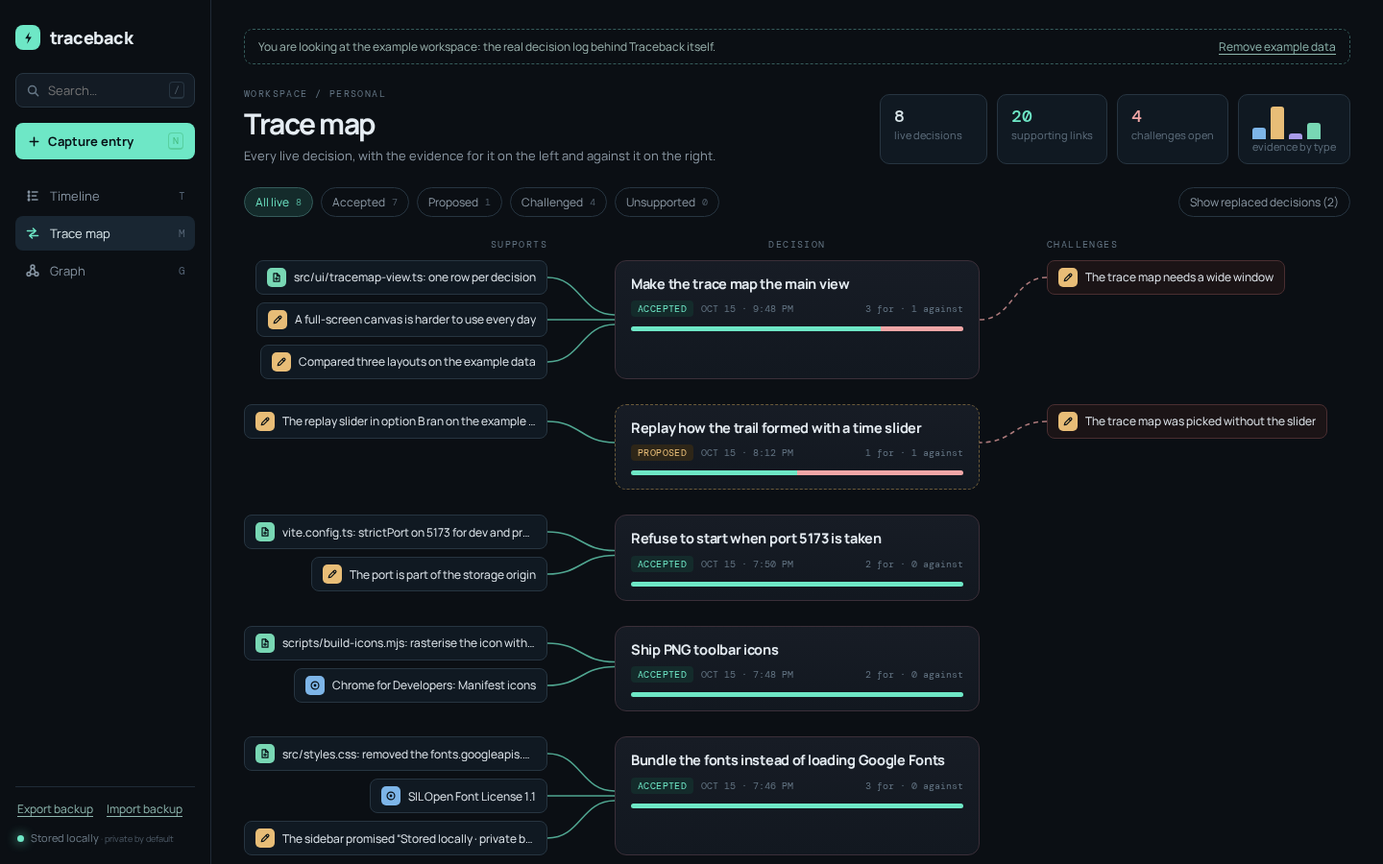
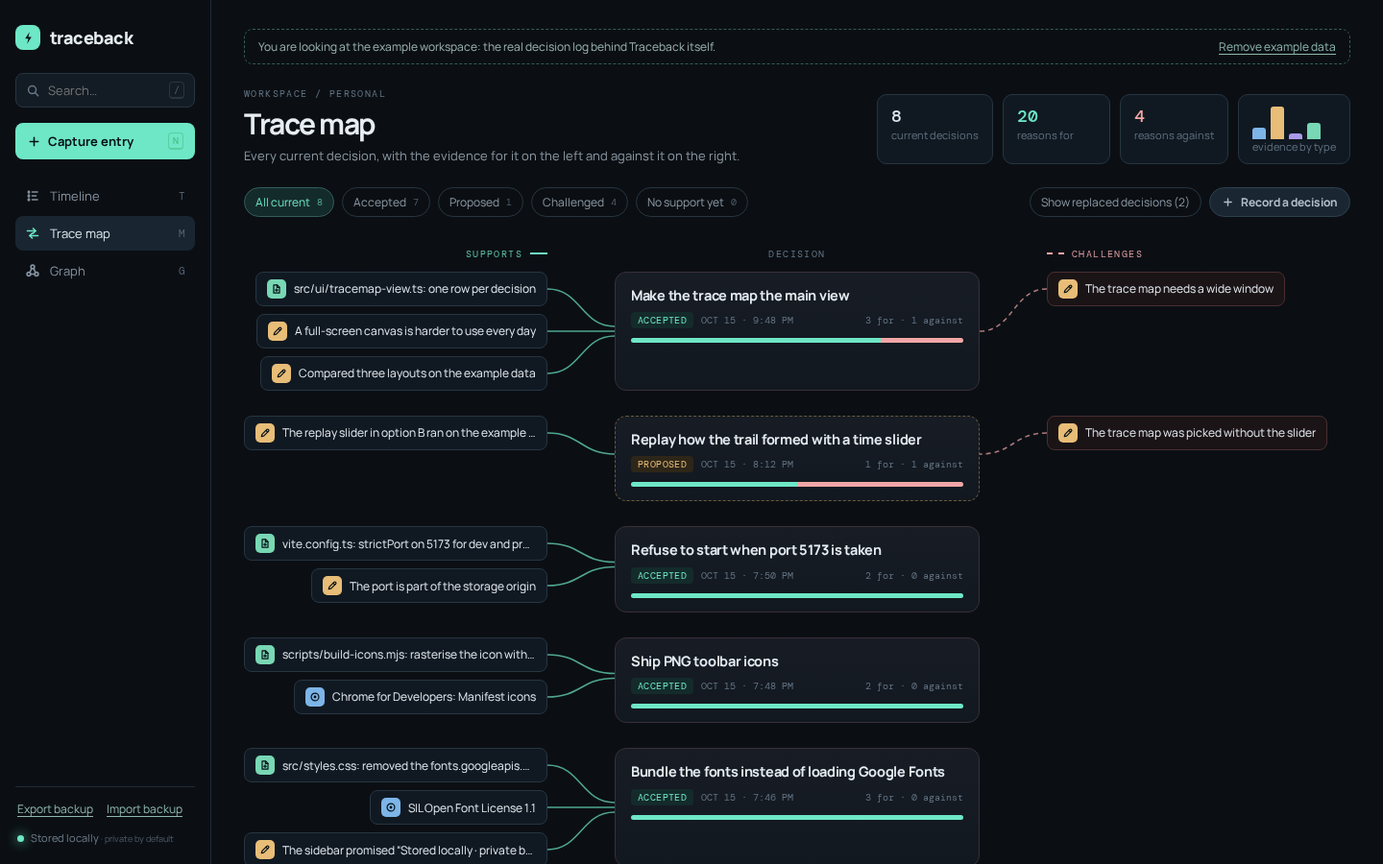
Plain-language pass from a first-run usability review
- "live" -> "current"; stats read "current decisions", "reasons for",
  "reasons against"; "Unsupported" filter -> "No support yet"
- Status label "Superseded" -> "Replaced" (search still matches both);
  every replaced-decision mention explains it is kept, not deleted
- One verb for linking: "Connect evidence to this decision" /
  "Connect this to decisions" / "Connect"; no "bears on", no "successor"
- Trace map: sticky colour-keyed SUPPORTS/CHALLENGES headings,
  "Record a decision" button, hover hints on filters, stats and bars
- Graph legend explains rings (decisions) and dots (evidence)
- Shortcut letters explained on hover; stronger for/against colours
  in the narrow stacked layout
- 96 tests; README screenshots refreshed

diff --git a/src/ui/tracemap-view.ts b/src/ui/tracemap-view.ts
@@ -1,7 +1,7 @@
 import { EVIDENCE_TYPES, STATUS_LABELS, typeLabel, type Entry } from '../core/model';
 import type { WorkspaceIndex } from '../core/query';
 import { TRACE_FILTERS, buildTraceMap, type TraceFilter, type TraceMap, type TraceRow } from '../core/tracemap';
-import { escapeHtml, formatShort, plural } from './format';
+import { REPLACED_HINT, escapeHtml, formatShort, plural } from './format';
 import { icon, typeIcon } from './icons';
 
 /** Chip height and vertical pitch. Connectors are computed from these, so the CSS must match. */
@@ -31,42 +31,50 @@ function header(map: TraceMap): string {
   const bars = EVIDENCE_TYPES.map((type) => {
     const count = summary.evidenceByType[type];
     const height = count ? Math.max(14, Math.round((count / largest) * 100)) : 6;
-    return `<i class="type-${type}" style="height:${height}%"></i>`;
+    return `<i class="type-${type}" style="height:${height}%" title="${count} ${typeLabel(type, count !== 1).toLowerCase()}"></i>`;
   }).join('');
   const described = EVIDENCE_TYPES.map((type) => {
     const count = summary.evidenceByType[type];
     return `${count} ${typeLabel(type, count !== 1).toLowerCase()}`;
   }).join(', ');
   return `<header class="view-head">
-    <div><p class="eyebrow">WORKSPACE / PERSONAL</p><h1 id="view-title">Trace map</h1><p class="sub">Every live decision, with the evidence for it on the left and against it on the right.</p></div>
+    <div><p class="eyebrow">WORKSPACE / PERSONAL</p><h1 id="view-title">Trace map</h1><p class="sub">Every current decision, with the evidence for it on the left and against it on the right.</p></div>
     <div class="summary">
-      <div class="stat"><b>${summary.liveDecisions}</b><small>live decisions</small></div>
-      <div class="stat"><b class="is-accent">${summary.supportingLinks}</b><small>supporting links</small></div>
-      <div class="stat"><b class="is-rose">${summary.openChallenges}</b><small>challenges open</small></div>
-      <div class="stat" role="img" aria-label="Evidence by type: ${described}"><div class="type-bars">${bars}</div><small>evidence by type</small></div>
+      <div class="stat" title="Decisions that are proposed or accepted, not replaced or rejected"><b>${summary.liveDecisions}</b><small>current decisions</small></div>
+      <div class="stat" title="Connections from evidence that supports a current decision"><b class="is-accent">${summary.supportingLinks}</b><small>reasons for</small></div>
+      <div class="stat" title="Connections from evidence that argues against a current decision"><b class="is-rose">${summary.openChallenges}</b><small>reasons against</small></div>
+      <div class="stat" role="img" aria-label="Evidence by type: ${described}" title="Evidence by type: ${described}"><div class="type-bars">${bars}</div><small>evidence by type</small></div>
     </div>
   </header>`;
 }
 
 function toolbar(map: TraceMap, state: TraceMapViewState): string {
   const labels: Record<TraceFilter, string> = {
-    live: state.showClosed ? 'All' : 'All live',
+    live: state.showClosed ? 'All' : 'All current',
     accepted: 'Accepted',
     proposed: 'Proposed',
     challenged: 'Challenged',
-    unsupported: 'Unsupported',
+    unsupported: 'No support yet',
+  };
+  const hints: Record<TraceFilter, string> = {
+    live: state.showClosed ? 'Every decision, including replaced and rejected ones' : 'Every decision that is proposed or accepted',
+    accepted: 'Decisions you have made',
+    proposed: 'Decisions that are not settled yet',
+    challenged: 'At least one piece of evidence argues against it',
+    unsupported: 'Nothing supports it so far',
   };
   const chips = TRACE_FILTERS.map((filter) => {
     const on = state.filter === filter;
-    return `<button type="button" class="chip${on ? ' on' : ''}" data-action="map-filter" data-filter="${filter}" data-focus="filter:${filter}" aria-pressed="${on}">${labels[filter]}<span class="chip-count">${map.counts[filter]}</span></button>`;
+    return `<button type="button" class="chip${on ? ' on' : ''}" data-action="map-filter" data-filter="${filter}" data-focus="filter:${filter}" aria-pressed="${on}" title="${hints[filter]}">${labels[filter]}<span class="chip-count">${map.counts[filter]}</span></button>`;
   }).join('');
   const { superseded, rejected } = map.summary;
   const closed = superseded + rejected;
   const closedLabel = superseded && rejected ? 'Show replaced and rejected' : superseded ? 'Show replaced decisions' : 'Show rejected decisions';
   const toggle = closed
-    ? `<button type="button" class="chip${state.showClosed ? ' on' : ''}" data-action="toggle-closed" data-focus="toggle-closed" aria-pressed="${state.showClosed}">${closedLabel} (${closed})</button>`
+    ? `<button type="button" class="chip${state.showClosed ? ' on' : ''}" data-action="toggle-closed" data-focus="toggle-closed" aria-pressed="${state.showClosed}" title="${REPLACED_HINT}">${closedLabel} (${closed})</button>`
     : '';
-  return `<div class="chip-row" role="toolbar" aria-label="Filter decisions">${chips}<span class="spacer"></span>${toggle}</div>`;
+  const record = `<button type="button" class="secondary is-small" data-action="new-entry" data-type="decision" data-focus="map-new-decision">${icon('plus', 13)} Record a decision</button>`;
+  return `<div class="chip-row" role="toolbar" aria-label="Filter decisions">${chips}<span class="spacer"></span>${toggle}${record}</div>`;
 }
 
 function content(map: TraceMap, state: TraceMapViewState): string {
@@ -76,9 +84,9 @@ function content(map: TraceMap, state: TraceMapViewState): string {
   if (!hasDecisions) {
     rows = `<div class="empty-state"><div class="empty-icon">${icon('map', 34)}</div><h2>No decisions yet</h2><p>Record what you chose; its evidence will line up beside it here.</p><button type="button" class="primary" data-action="new-entry" data-type="decision" data-focus="empty-decision">Record a decision</button></div>`;
   } else if (!map.rows.length) {
-    rows = `<div class="empty-state"><div class="empty-icon">${icon('search', 34)}</div><h2>No decisions match</h2><p>Try another filter or clear the search.</p><button type="button" class="secondary" data-action="reset-map" data-focus="reset-map">Show all live decisions</button></div>`;
+    rows = `<div class="empty-state"><div class="empty-icon">${icon('search', 34)}</div><h2>No decisions match</h2><p>Try another filter or clear the search.</p><button type="button" class="secondary" data-action="reset-map" data-focus="reset-map">Show all current decisions</button></div>`;
   } else {
-    rows = `<div class="trace-columns" aria-hidden="true"><span>SUPPORTS</span><span></span><span>DECISION</span><span></span><span>CHALLENGES</span></div>
+    rows = `<div class="trace-columns" aria-hidden="true"><span class="col-supports">SUPPORTS</span><span></span><span>DECISION</span><span></span><span class="col-challenges">CHALLENGES</span></div>
       <ol class="trace-rows">${map.rows.map((row) => rowHtml(row, map, state)).join('')}</ol>`;
   }
   return `${rows}${looseHtml(map, state)}`;
@@ -121,10 +129,10 @@ function rowHtml(row: TraceRow, map: TraceMap, state: TraceMapViewState): string
     ? `<span class="s" style="flex:${supports.length}"></span><span class="c" style="flex:${challenges.length}"></span>`
     : '';
   const replacedLines = replaces
-    .map(({ entry, against }) => `<div class="trace-replaces">Replaces <button type="button" class="link-inline" data-action="select" data-id="${entry.id}" data-focus="replaced:${decision.id}:${entry.id}"><s>${escapeHtml(entry.title)}</s></button>${against ? ` <em>${plural(against, 'reason')} against</em>` : ''}</div>`)
+    .map(({ entry, against }) => `<div class="trace-replaces" title="${REPLACED_HINT}">Replaces <button type="button" class="link-inline" data-action="select" data-id="${entry.id}" data-focus="replaced:${decision.id}:${entry.id}"><s>${escapeHtml(entry.title)}</s></button>${against ? ` <em>${plural(against, 'reason')} against</em>` : ''}</div>`)
     .join('');
   const replacedByLine = replacedBy
-    ? `<div class="trace-replaces">Replaced by <button type="button" class="link-inline" data-action="select" data-id="${replacedBy.id}" data-focus="replacement:${decision.id}">${escapeHtml(replacedBy.title)}</button></div>`
+    ? `<div class="trace-replaces" title="${REPLACED_HINT}">Replaced by <button type="button" class="link-inline" data-action="select" data-id="${replacedBy.id}" data-focus="replacement:${decision.id}">${escapeHtml(replacedBy.title)}</button></div>`
     : '';
 
   return `<li class="trace-row${row.live ? '' : ' is-closed'}">
@@ -133,7 +141,7 @@ function rowHtml(row: TraceRow, map: TraceMap, state: TraceMapViewState): string
     <article class="${cardClasses.join(' ')}" data-action="select" data-id="${decision.id}" style="min-height:${height}px">
       <h3><button type="button" class="card-open" data-action="select" data-id="${decision.id}" data-focus="card:${decision.id}">${title}</button></h3>
       <div class="trace-meta"><span class="pill status-${status}">${STATUS_LABELS[status]}</span><time datetime="${decision.createdAt}">${formatShort(decision.createdAt)}</time><span class="trace-tally">${supports.length} for · ${challenges.length} against</span></div>
-      <div class="balance" aria-hidden="true">${balance}</div>
+      <div class="balance" aria-hidden="true" title="${supports.length} for, ${challenges.length} against">${balance}</div>
       ${replacedLines}${replacedByLine}
     </article>
     ${flow(challenges.length, height, 'challenges')}
@@ -145,7 +153,7 @@ function looseHtml(map: TraceMap, state: TraceMapViewState): string {
   if (!map.unlinked.length) return '';
   return `<section class="trace-loose" aria-labelledby="loose-title">
     <p class="eyebrow" id="loose-title">NOT CONNECTED YET · ${map.unlinked.length}</p>
-    <p class="hint">Evidence that does not bear on any decision yet. Open one to connect it.</p>
+    <p class="hint">Evidence that is not connected to any decision yet. Open one to connect it.</p>
     <div class="loose-grid">${map.unlinked.map((entry) => chip(entry, map, state, 'loose')).join('')}</div>
   </section>`;
 }

diff --git a/src/styles.css b/src/styles.css
@@ -68,6 +68,7 @@ code { font: 11px var(--mono); color: var(--text-soft); }
 .primary:hover { background: var(--accent-strong); }
 .secondary { padding: 10px 14px; border: 1px solid #2c414d; background: #1a2732; color: #b1c0ca; font-size: 13px; }
 .secondary:hover { border-color: var(--accent); color: var(--text); }
+.secondary.is-small { padding: 6px 12px; border-radius: 20px; font-size: 12px; }
 .ghost { padding: 7px 10px; border: 1px solid transparent; background: transparent; color: var(--muted); font-size: 12px; font-weight: 600; }
 .ghost:hover { border-color: var(--line-strong); color: var(--text); background: var(--bg-raised); }
 .ghost.is-danger:hover { border-color: var(--rose-line); color: var(--rose); background: var(--rose-bg); }
@@ -146,9 +147,13 @@ code { font: 11px var(--mono); color: var(--text-soft); }
 
 /* ── Trace map ───────────────────────────────────────────────────────── */
 .trace-columns, .trace-row { display: grid; grid-template-columns: minmax(0, 1fr) 70px minmax(300px, 380px) 70px minmax(0, 1fr); }
-.trace-columns { margin-bottom: 10px; color: var(--dim); font: 10px var(--mono); letter-spacing: .14em; }
-.trace-columns span:first-child { text-align: right; }
+.trace-columns { position: sticky; top: 0; z-index: 3; margin: 0 0 4px; padding: 10px 0 8px; background: linear-gradient(var(--bg) 78%, transparent); color: var(--dim); font: 10px var(--mono); letter-spacing: .14em; }
 .trace-columns span:nth-child(3) { text-align: center; }
+.trace-columns .col-supports, .trace-columns .col-challenges { display: flex; align-items: center; gap: 8px; }
+.trace-columns .col-supports { justify-content: flex-end; color: #5fbfa6; }
+.trace-columns .col-supports::after { content: ''; width: 18px; border-top: 2px solid var(--accent); }
+.trace-columns .col-challenges { color: #d99a9f; }
+.trace-columns .col-challenges::before { content: ''; width: 18px; border-top: 2px dashed var(--rose); }
 .trace-rows { margin: 0; padding: 0; list-style: none; }
 .trace-row { align-items: start; margin-bottom: 26px; }
 .trace-row.is-closed { opacity: .62; }
@@ -293,6 +298,9 @@ svg.graph.is-hovering .g-edge.is-near { opacity: .95; }
 .graph-legend .lg-challenge { border-top: 2px dashed var(--rose); }
 .graph-legend .lg-replace { border-top: 2px dotted var(--grey-line); }
 .graph-legend .lg-hint { color: var(--faint); }
+.graph-legend .lg-glyph { flex: none; }
+.graph-legend .lg-ring { fill: none; stroke: var(--c-decision); stroke-width: 2.2; }
+.graph-legend .lg-dot { fill: var(--c-note); }
 .graph-zoom { position: absolute; right: 14px; bottom: 14px; display: grid; overflow: hidden; border: 1px solid var(--line-strong); border-radius: 9px; background: var(--bg-overlay); }
 .graph-zoom button { display: grid; place-items: center; width: 36px; height: 32px; border: 0; border-bottom: 1px solid var(--line-strong); background: none; color: var(--muted); font-size: 16px; }
 .graph-zoom button:last-child { border: 0; font: 10px var(--mono); }
@@ -371,12 +379,12 @@ dialog::backdrop { background: #05080bbd; }
   .trace-row { grid-template-columns: minmax(0, 1fr); gap: 8px; margin-bottom: 30px; }
   .trace-row .flow { display: none; }
   .trace-card { order: -1; min-height: 0 !important; }
-  .trace-stack, .trace-stack.is-supports { justify-items: start; padding-left: 14px; border-left: 2px solid var(--accent-line); }
-  .trace-stack.is-challenges { border-left-color: var(--rose-line); }
+  .trace-stack, .trace-stack.is-supports { justify-items: start; padding-left: 14px; border-left: 2px solid #2f7a6b; }
+  .trace-stack.is-challenges { border-left: 2px dashed #8a4a50; }
   .trace-stack.is-challenges:empty { display: none; }
-  .trace-stack::before { color: var(--dim); font: 10px var(--mono); letter-spacing: .14em; }
-  .trace-stack.is-supports::before { content: 'SUPPORTS'; }
-  .trace-stack.is-challenges::before { content: 'CHALLENGES'; }
+  .trace-stack::before { font: 10px var(--mono); letter-spacing: .14em; }
+  .trace-stack.is-supports::before { content: 'SUPPORTS'; color: #5fbfa6; }
+  .trace-stack.is-challenges::before { content: 'CHALLENGES'; color: #d99a9f; }
   .chip-ev { max-width: 100%; }
   .content-grid, .graph-layout { grid-template-columns: minmax(0, 1fr); }
   .content-grid .inspector { position: static; max-height: none; padding: 24px 0 0; border-left: 0; border-top: 1px solid var(--line-strong); order: -1; }

diff --git a/src/ui/dialogs.ts b/src/ui/dialogs.ts
@@ -59,12 +59,12 @@ export function createDialogs(root: HTMLElement, deps: DialogDeps): Dialogs {
     </dialog>
     <dialog id="link-dialog" aria-labelledby="link-dialog-title">
       <form id="link-form" class="dialog-form" novalidate>
-        <div class="dialog-head"><div><p class="eyebrow">CONNECT EVIDENCE</p><h2 id="link-dialog-title" data-role="heading">What bears on this decision?</h2><p class="dialog-help" data-role="help"></p></div>${closeButton}</div>
+        <div class="dialog-head"><div><p class="eyebrow">CONNECT EVIDENCE</p><h2 id="link-dialog-title" data-role="heading">Connect evidence to this decision</h2><p class="dialog-help" data-role="help"></p></div>${closeButton}</div>
         <div class="relation-picker" role="radiogroup" aria-label="Relation"><label><input type="radio" name="kind" value="supports" checked /> Supports</label><label><input type="radio" name="kind" value="challenges" /> Challenges</label></div>
         <label class="filter-field"><span class="visually-hidden">Filter the list</span><input type="search" data-role="filter" placeholder="Filter…" autocomplete="off" /></label>
         <div class="candidate-list" data-role="candidates"></div>
         <p class="form-error" role="alert" data-role="error"></p>
-        <button class="primary full" type="submit">Connect selected</button>
+        <button class="primary full" type="submit">Connect</button>
       </form>
     </dialog>
     <dialog id="supersede-dialog" aria-labelledby="supersede-dialog-title">
@@ -184,7 +184,7 @@ export function createDialogs(root: HTMLElement, deps: DialogDeps): Dialogs {
     try {
       deps.store.updateEntry(supersedeId, { supersededBy: String(replacement) });
       supersedeDialog.close();
-      deps.onChanged('Marked as replaced. It stays in the log, linked to its successor.');
+      deps.onChanged('Marked as replaced. It stays in your trail, linked to the decision that replaced it.');
     } catch (error) {
       showError(supersedeForm, error);
     }
@@ -239,10 +239,10 @@ export function createDialogs(root: HTMLElement, deps: DialogDeps): Dialogs {
       if (!candidates.length) return false;
       linkAnchor = anchorId;
       linkForm.reset();
-      part(linkForm, 'heading').textContent = isDecision ? 'What bears on this decision?' : 'Which decisions does this bear on?';
+      part(linkForm, 'heading').textContent = isDecision ? 'Connect evidence to this decision' : 'Connect this to decisions';
       part(linkForm, 'help').textContent = isDecision
-        ? `Pick the evidence behind “${anchor.title}”, then say whether it supports the decision or challenges it.`
-        : `Pick the decisions “${anchor.title}” matters for, then say whether it supports or challenges them.`;
+        ? `Pick the evidence behind “${anchor.title}”, then choose whether it supports the decision or challenges it.`
+        : `Pick the decisions “${anchor.title}” matters for, then choose whether it supports or challenges them.`;
       part(linkForm, 'candidates').innerHTML = candidates.map((entry) => candidateHtml(entry, 'checkbox', 'pick')).join('');
       open(linkDialog, linkForm);
       part<HTMLInputElement>(linkForm, 'filter').focus();
@@ -257,7 +257,7 @@ export function createDialogs(root: HTMLElement, deps: DialogDeps): Dialogs {
       if (!candidates.length) return false;
       supersedeId = decisionId;
       supersedeForm.reset();
-      part(supersedeForm, 'help').textContent = `“${decision.title}” will be marked as replaced. It stays in the log, linked to its successor.`;
+      part(supersedeForm, 'help').textContent = `“${decision.title}” will be marked as replaced. It is not deleted: it stays in your trail, linked to the decision that replaced it.`;
       part(supersedeForm, 'candidates').innerHTML = candidates.map((entry) => candidateHtml(entry, 'radio', 'replacement')).join('');
       const current = decision.supersededBy
         ? supersedeForm.querySelector<HTMLInputElement>(`input[value="${decision.supersededBy}"]`)

diff --git a/src/ui/graph-view.ts b/src/ui/graph-view.ts
@@ -2,7 +2,7 @@ import { buildGraph, layoutGraph, type GraphModel } from '../core/graph';
 import { boundsOf, type Bounds, type Point } from '../core/layout';
 import { STATUS_LABELS, typeLabel, type Entry } from '../core/model';
 import { entryMatches, hasFilters, parseQuery, type WorkspaceIndex } from '../core/query';
-import { escapeHtml, plural, truncate } from './format';
+import { REPLACED_HINT, escapeHtml, plural, truncate } from './format';
 import { icon } from './icons';
 import { inspectorHtml } from './inspector';
 
@@ -71,8 +71,8 @@ export function renderGraph(index: WorkspaceIndex, state: GraphViewState): Rende
     <div><p class="eyebrow">WORKSPACE / PERSONAL</p><h1 id="view-title">Graph</h1><p class="sub">How decisions and their evidence connect. Rings are decisions; dots are evidence.</p></div>
     <div class="summary">
       <div class="stat"><b>${model.nodes.length}</b><small>entries</small></div>
-      <div class="stat"><b class="is-accent">${links}</b><small>connections</small></div>
-      <div class="stat"><b>${replacements}</b><small>replacements</small></div>
+      <div class="stat" title="Evidence connected to decisions, for or against"><b class="is-accent">${links}</b><small>connections</small></div>
+      <div class="stat" title="${REPLACED_HINT}"><b>${replacements}</b><small>replaced decisions</small></div>
     </div>
   </header>`;
 
@@ -132,8 +132,8 @@ export function renderGraph(index: WorkspaceIndex, state: GraphViewState): Rende
           <defs><marker id="tb-arrow" viewBox="0 0 10 10" refX="8" refY="5" markerWidth="7" markerHeight="7" orient="auto-start-reverse"><path d="M0 0L10 5L0 10z"/></marker></defs>
           <g class="graph-viewport"><g class="g-edges">${edges}</g><g class="g-nodes">${nodes}</g><g class="g-labels">${labels}</g></g>
         </svg>
-        <div class="graph-legend" aria-hidden="true"><span><i class="lg-support"></i>supports</span><span><i class="lg-challenge"></i>challenges</span><span><i class="lg-replace"></i>replaced by</span><span class="lg-hint">drag to move · scroll to zoom</span></div>
-        <div class="graph-zoom"><button type="button" data-action="zoom-in" aria-label="Zoom in">${icon('plus', 15)}</button><button type="button" data-action="zoom-out" aria-label="Zoom out"><span aria-hidden="true">−</span></button><button type="button" data-action="zoom-fit" aria-label="Fit the graph to the window">FIT</button></div>
+        <div class="graph-legend" aria-hidden="true"><span><svg class="lg-glyph" width="14" height="14" viewBox="0 0 14 14"><circle class="lg-ring" cx="7" cy="7" r="5"/></svg>decision</span><span><svg class="lg-glyph" width="14" height="14" viewBox="0 0 14 14"><circle class="lg-dot" cx="7" cy="7" r="4"/></svg>evidence</span><span><i class="lg-support"></i>supports</span><span><i class="lg-challenge"></i>challenges</span><span><i class="lg-replace"></i>replaced by</span><span class="lg-hint">drag to move · scroll to zoom</span></div>
+        <div class="graph-zoom"><button type="button" data-action="zoom-in" aria-label="Zoom in" title="Zoom in (+)">${icon('plus', 15)}</button><button type="button" data-action="zoom-out" aria-label="Zoom out" title="Zoom out (−)"><span aria-hidden="true">−</span></button><button type="button" data-action="zoom-fit" aria-label="Fit the graph to the window" title="Fit the graph to the window (0)">FIT</button></div>
       </div>
       ${inspector}
     </div>

diff --git a/src/app.ts b/src/app.ts
@@ -293,15 +293,15 @@ export function mountApp(root: HTMLElement, options: MountOptions = {}): () => v
     const nav = VIEW_ORDER.map((view) => {
       const on = state.view === view;
       const { label, key, hash } = VIEWS[view];
-      return `<a href="${hash}" class="nav-item${on ? ' on' : ''}" data-action="view" data-view="${view}" data-focus="nav:${view}"${on ? ' aria-current="page"' : ''}>${icon(VIEWS[view].icon, 16)}<span>${label}</span><kbd aria-hidden="true">${key.toUpperCase()}</kbd></a>`;
+      return `<a href="${hash}" class="nav-item${on ? ' on' : ''}" data-action="view" data-view="${view}" data-focus="nav:${view}" title="${label} (keyboard shortcut: ${key.toUpperCase()})"${on ? ' aria-current="page"' : ''}>${icon(VIEWS[view].icon, 16)}<span>${label}</span><kbd aria-hidden="true">${key.toUpperCase()}</kbd></a>`;
     }).join('');
     return `<aside class="sidebar">
       <div class="brand"><span class="brand-mark">${icon('bolt', 17)}</span><span>traceback</span></div>
       <div class="side-search">
-        <label class="search-box">${icon('search', 15)}<span class="visually-hidden">Search entries</span><input id="search" type="search" data-focus="search" value="${escapeHtml(state.search)}" placeholder="Search…" autocomplete="off" spellcheck="false" /><kbd aria-hidden="true">/</kbd></label>
+        <label class="search-box" title="Search (keyboard shortcut: /)">${icon('search', 15)}<span class="visually-hidden">Search entries</span><input id="search" type="search" data-focus="search" value="${escapeHtml(state.search)}" placeholder="Search…" autocomplete="off" spellcheck="false" /><kbd aria-hidden="true">/</kbd></label>
         <p class="search-hint">Try <code>#tag</code>, <code>type:note</code> or <code>is:unsupported</code></p>
       </div>
-      <button type="button" class="primary side-capture" data-action="new-entry" data-focus="capture">${icon('plus', 15)}<span>Capture entry</span><kbd aria-hidden="true">N</kbd></button>
+      <button type="button" class="primary side-capture" data-action="new-entry" data-focus="capture" title="Capture a source, note, command, file change or decision (keyboard shortcut: N)">${icon('plus', 15)}<span>Capture entry</span><kbd aria-hidden="true">N</kbd></button>
       <nav class="side-nav" aria-label="Views">${nav}</nav>
       <div class="side-foot">
         <div class="backup-actions"><button type="button" class="link-button" data-action="export-backup" data-focus="export-backup"${empty ? ' disabled' : ''}>Export backup</button><label class="link-button">Import backup<input type="file" data-change="import" accept="application/json,.json" hidden /></label></div>

diff --git a/src/ui/inspector.ts b/src/ui/inspector.ts
@@ -1,6 +1,6 @@
 import { DECISION_STATUSES, STATUS_LABELS, typeLabel, type Entry, type LinkKind } from '../core/model';
 import { decisionsFor, evidenceFor, type Connected, type WorkspaceIndex } from '../core/query';
-import { escapeHtml, formatDateTime, plural } from './format';
+import { REPLACED_HINT, escapeHtml, formatDateTime, plural } from './format';
 import { icon, typeIcon } from './icons';
 
 export interface InspectorOptions {
@@ -73,8 +73,8 @@ function decisionHtml(index: WorkspaceIndex, decision: Entry, options: Inspector
   return `${head('DECISION', decision, options)}
     <div class="inspector-meta"><span class="pill status-${status}">${STATUS_LABELS[status]}</span><time datetime="${decision.createdAt}">${formatDateTime(decision.createdAt)}</time>${ORIGIN_NOTES[decision.origin] ? `<span>${ORIGIN_NOTES[decision.origin]}</span>` : ''}</div>
     <label class="field-inline">Status <select data-change="status" data-id="${decision.id}" data-focus="inspector-status">${statuses.map((option) => `<option value="${option}" ${option === status ? 'selected' : ''}>${STATUS_LABELS[option]}</option>`).join('')}</select></label>
-    ${replacement ? `<p class="relation-line">Replaced by ${entryButton(replacement)}</p>` : ''}
-    ${replaces.map((old) => `<p class="relation-line">Replaces ${entryButton(old, true)}</p>`).join('')}
+    ${replacement ? `<p class="relation-line" title="${REPLACED_HINT}">Replaced by ${entryButton(replacement)}</p>` : ''}
+    ${replaces.map((old) => `<p class="relation-line" title="${REPLACED_HINT}">Replaces ${entryButton(old, true)}</p>`).join('')}
     <div class="inspector-body">${decision.body ? escapeHtml(decision.body) : '<span class="muted">No rationale recorded yet. Edit the decision to say why.</span>'}</div>
     ${extras(decision)}
     <p class="eyebrow">EVIDENCE BALANCE</p>

diff --git a/tests/app.test.ts b/tests/app.test.ts
@@ -94,6 +94,16 @@ describe('trace map', () => {
     $('[data-action="toggle-closed"]').click();
     expect($$('.trace-row')).toHaveLength(live + 2);
     expect($$('.trace-row.is-closed')).toHaveLength(2);
+    expect($$('.trace-row.is-closed .trace-meta .pill').map((pill) => pill.textContent)).toEqual(['Replaced', 'Replaced']);
+  });
+
+  it('records a decision straight from the trace map toolbar', () => {
+    loadExample();
+    expect($('[data-filter="unsupported"]').textContent).toContain('No support yet');
+    $('[data-focus="map-new-decision"]').click();
+    expect($('#entry-dialog').hasAttribute('open')).toBe(true);
+    expect($('#entry-form').dataset.type).toBe('decision');
+    expect($('#entry-dialog-title').textContent).toBe('Record a decision');
   });
 
   it('opens an entry in the drawer and closes it with Escape', () => {
@@ -261,7 +271,7 @@ describe('dialogs', () => {
     remount();
     $(`.trace-loose .chip-ev[data-id="${note.id}"]`).click();
     $('.drawer [data-action="link"]').click();
-    expect($('#link-form').textContent).toContain('Which decisions does this bear on?');
+    expect($('#link-form').textContent).toContain('Connect this to decisions');
     $<HTMLInputElement>(`#link-form [name="pick"][value="${decision.id}"]`).checked = true;
     $<HTMLInputElement>('#link-form [value="challenges"]').checked = true;
     $<HTMLFormElement>('#link-form').requestSubmit();

diff --git a/src/core/export.ts b/src/core/export.ts
@@ -74,7 +74,7 @@ export function bundleToMarkdown(bundle: DecisionBundle, exportedAt: Date = new 
   if (decision.updatedAt !== decision.createdAt) meta.push(`**Updated:** ${formatUtc(decision.updatedAt)}`);
   const lines = [`# ${escapeMarkdown(decision.title)}`, '', meta.join(' · '), ''];
   if (bundle.supersededBy) {
-    lines.push(`> **Superseded by:** ${escapeMarkdown(bundle.supersededBy.title)} (${formatUtc(bundle.supersededBy.createdAt)})`, '');
+    lines.push(`> **Replaced by:** ${escapeMarkdown(bundle.supersededBy.title)} (${formatUtc(bundle.supersededBy.createdAt)})`, '');
   }
   if (decision.url) lines.push(`<${decision.url}>`, '');
   const tags = tagLine(decision);

diff --git a/src/core/example.ts b/src/core/example.ts
@@ -241,7 +241,7 @@ const drafts: Draft[] = [
     status: 'accepted',
     time: '18:48',
     title: 'Make the trace map the main view',
-    body: 'Each live decision gets one row: evidence that supports it on the left, evidence that challenges it on the right, and the decisions it replaced inside its card. The graph and the timeline stay one key away (G and T).',
+    body: 'Each current decision gets one row: evidence that supports it on the left, evidence that challenges it on the right, and the decisions it replaced inside its card. The graph and the timeline stay one key away (G and T).',
     tags: ['ui'],
   },
   {

diff --git a/src/ui/format.ts b/src/ui/format.ts
@@ -1,5 +1,8 @@
 import { clampText } from '../core/model';
 
+/** Shown wherever a replaced decision appears, so replacing never reads as deleting. */
+export const REPLACED_HINT = 'Replaced decisions are never deleted. They stay in your trail, linked to the decision that replaced them.';
+
 const ESCAPES: Record<string, string> = { '&': '&amp;', '<': '&lt;', '>': '&gt;', '"': '&quot;', "'": '&#039;' };
 
 /** Every piece of user text goes through this before it reaches innerHTML. */

diff --git a/src/core/model.ts b/src/core/model.ts
@@ -116,7 +116,7 @@ const TYPE_LABELS: Record<EntryType, { one: string; many: string }> = {
 export const STATUS_LABELS: Record<DecisionStatus, string> = {
   proposed: 'Proposed',
   accepted: 'Accepted',
-  superseded: 'Superseded',
+  superseded: 'Replaced',
   rejected: 'Rejected',
 };
 

diff --git a/src/core/query.ts b/src/core/query.ts
@@ -144,6 +144,7 @@ export function entryMatches(index: WorkspaceIndex, entry: Entry, query: ParsedQ
     entry.url ?? '',
     typeLabel(entry.type),
     entry.status ? STATUS_LABELS[entry.status] : '',
+    entry.status ?? '',
     ...entry.tags,
   ]
     .join('\n')
